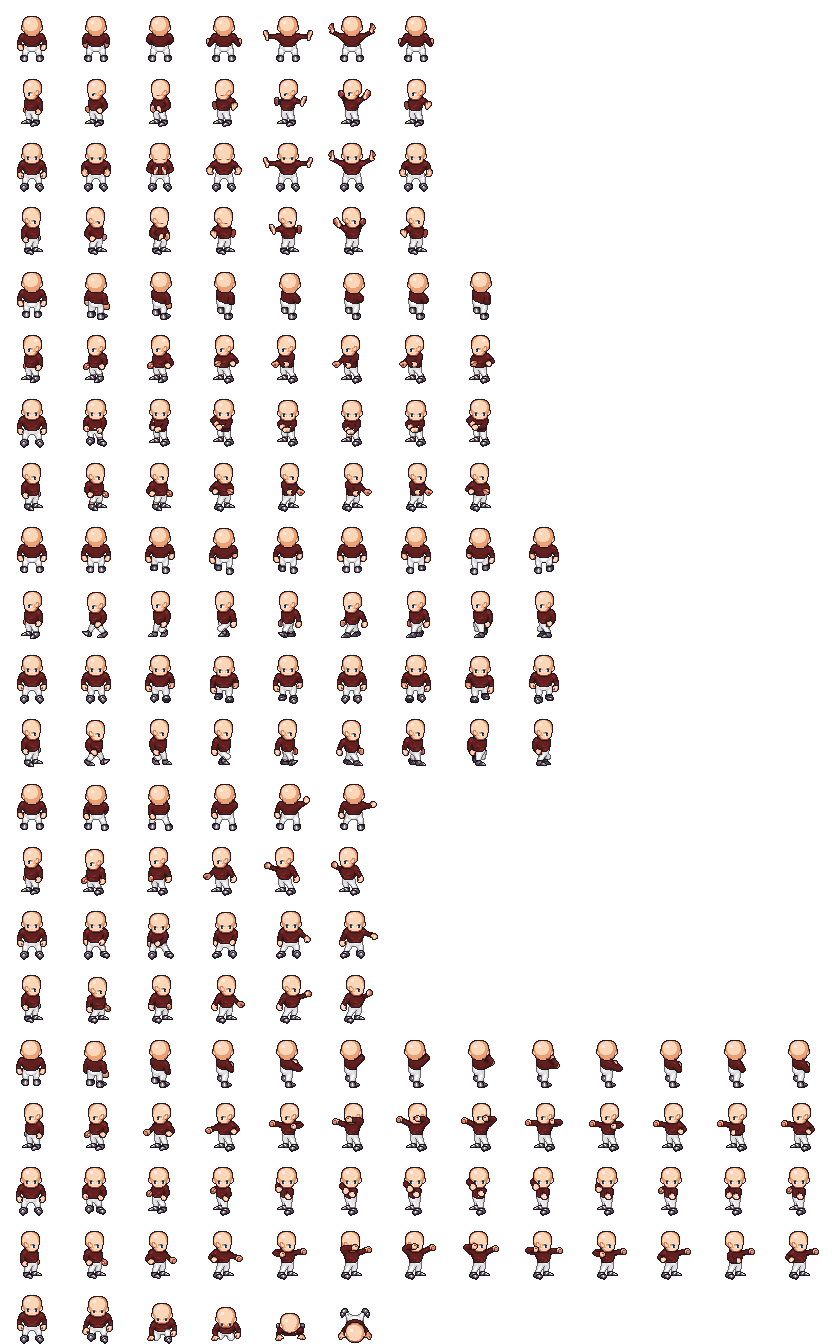
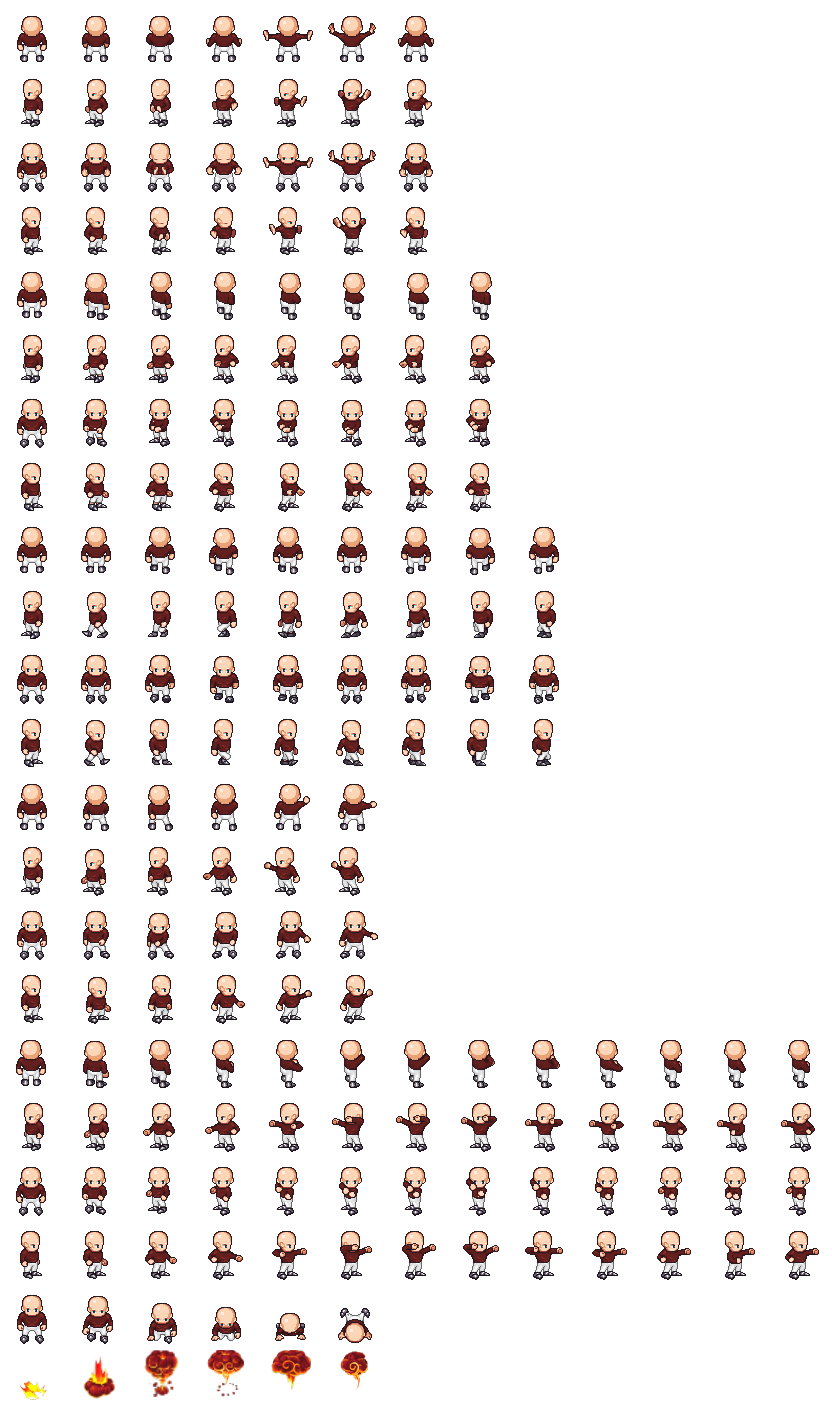
Changement graphique + explosions

diff --git a/src/main/java/fr/icom/info/m1/balleauprisonnier_mvn/Sprite.java b/src/main/java/fr/icom/info/m1/balleauprisonnier_mvn/Sprite.java
@@ -8,6 +8,8 @@ import javafx.util.Duration;
 
 class Sprite extends ImageView {
     private final Rectangle2D[] walkClips;
+
+    private final Rectangle2D[] deathClips;
     private final Rectangle2D[] shootClips;
     private int numCells;
     private int numCellsWalk;
@@ -15,22 +17,27 @@ class Sprite extends ImageView {
     private final Timeline walkTimeline;
     private final IntegerProperty frameCounter = new SimpleIntegerProperty(0);
     private final Timeline shootTimeline;
+
+    private final Timeline deathTimeline;
     private Timeline timeline;
     public boolean isRunning;
 
-    public Sprite(Image animationImage, int numCells, int numRows, Duration frameTime, String side) {
+    public double vie;
+    public String side;
+    public Sprite(Image animationImage, int numCells, int numRows, Duration frameTime, String side, double vie) {
         this.numCells = numCells;
-
+        this.vie = vie;
         double cellWidth  = 64;//animationImage.getWidth() / numCells; //64x64
         double cellHeight = 64;//animationImage.getHeight() / numRows;
-
+        this.side = side;
 
         numCellsWalk = 9;
 
         int lineNumber = 8;
         if(side == "top"){
-            lineNumber += 2;
+            lineNumber +=2;
         }
+
 
         walkClips = new Rectangle2D[numCellsWalk];
         for (int i = 0; i < numCellsWalk; i++) {
@@ -39,7 +46,6 @@ class Sprite extends ImageView {
                     cellWidth, cellHeight
             );
         }
-
         setImage(animationImage);
         setViewport(walkClips[0]);
 
@@ -49,6 +55,21 @@ class Sprite extends ImageView {
                     setViewport(walkClips[frameCounter.get()]);
                 })
         );
+
+        deathClips = new Rectangle2D[6];
+        for (int i = 0; i < 6; i++){
+            deathClips[i] = new Rectangle2D(
+                    i * cellWidth, cellHeight*21,
+                    cellWidth, cellHeight
+            );
+        }
+
+        deathTimeline = new Timeline(
+                new KeyFrame(frameTime, event -> {
+                    frameCounter.set((frameCounter.get() + 1) % 6);
+                    setViewport(deathClips[frameCounter.get()]);
+                }));
+
 
         numCellsShoot = 13;
         lineNumber += 8;
@@ -67,6 +88,8 @@ class Sprite extends ImageView {
                     setViewport(shootClips[frameCounter.get()]);
                 }));
 
+
+
         timeline = walkTimeline;
         isRunning = false;
     }
@@ -75,6 +98,14 @@ class Sprite extends ImageView {
         isRunning = true;
         frameCounter.set(0);
         timeline = walkTimeline;
+        timeline.setCycleCount(Timeline.INDEFINITE);
+        timeline.stop();
+        timeline.playFromStart();
+    }
+    public void playDeath() {
+        isRunning = true;
+        frameCounter.set(0);
+        timeline = deathTimeline;
         timeline.setCycleCount(Timeline.INDEFINITE);
         timeline.stop();
         timeline.playFromStart();

diff --git a/src/main/java/fr/icom/info/m1/balleauprisonnier_mvn/IA.java b/src/main/java/fr/icom/info/m1/balleauprisonnier_mvn/IA.java
@@ -24,7 +24,7 @@ public class IA extends Player {
         else{
             tilesheetImage = new Image("assets/PlayerRed.png");
         }
-        sprite = new Sprite(tilesheetImage, 0,0, Duration.seconds(.2), this.team.getName());
+        sprite = new Sprite(tilesheetImage, 0,0, Duration.seconds(.2), this.team.getName(),this.vie);
         sprite.setX(getX());
         sprite.setY(getY());
         this.vitesse = 1;
@@ -48,7 +48,11 @@ public class IA extends Player {
     void deplacement(int feinte){
         this.changementDirectionBot(this.xMin, this.xMax, feinte);
         this.x += this.step * this.vitesse;
-        spriteAnimate();
+        if (this.vie>0){
+            spriteAnimate();
+        } else if (this.vie<=0){
+            spriteAnimate();
+        }
     }
 
     void suivit(){

diff --git a/src/main/java/fr/icom/info/m1/balleauprisonnier_mvn/Player.java b/src/main/java/fr/icom/info/m1/balleauprisonnier_mvn/Player.java
@@ -71,7 +71,7 @@ public class Player
 
 		//Image du joueur
 		Image tilesheetImage = new Image("assets/orc.png");
-		sprite = new Sprite(tilesheetImage, 0,0, Duration.seconds(.2), this.team.getName());
+		sprite = new Sprite(tilesheetImage, 0,0, Duration.seconds(.2), this.team.getName(),this.vie);
 		sprite.setX(x);
 		sprite.setY(y);
 
@@ -102,6 +102,8 @@ public class Player
 		if (x > 5)
 		{
 			spriteAnimate();
+
+
 			x -= step;
 			if (this.myBall != null){
 				this.myBall.x -= step;
@@ -192,11 +194,11 @@ public class Player
 	/**
 	 *  Deplacement en mode boost
 	 */
-	void boost()
-	{
-		x += step*2;
-		spriteAnimate();
-	}
+	//void boost()
+	//{
+	//	x += step*2;
+	//	spriteAnimate();
+	//}
 
 	void spriteAnimate(){
 		if(!sprite.isRunning) {sprite.playContinuously();}

diff --git a/src/main/java/fr/icom/info/m1/balleauprisonnier_mvn/Display.java b/src/main/java/fr/icom/info/m1/balleauprisonnier_mvn/Display.java
@@ -29,6 +29,7 @@ public class Display{
         gc.drawImage(uneImage,x,y);
     }
 
+
     public void displayPlayer(GraphicsContext gc, ArrayList<Player> team1, ArrayList<Player> team2, int indiceTeam1, int indiceTeam2 ){
         this.displayOne(gc,team1.get(indiceTeam1));
         this.displayOne(gc,team2.get(indiceTeam2));
